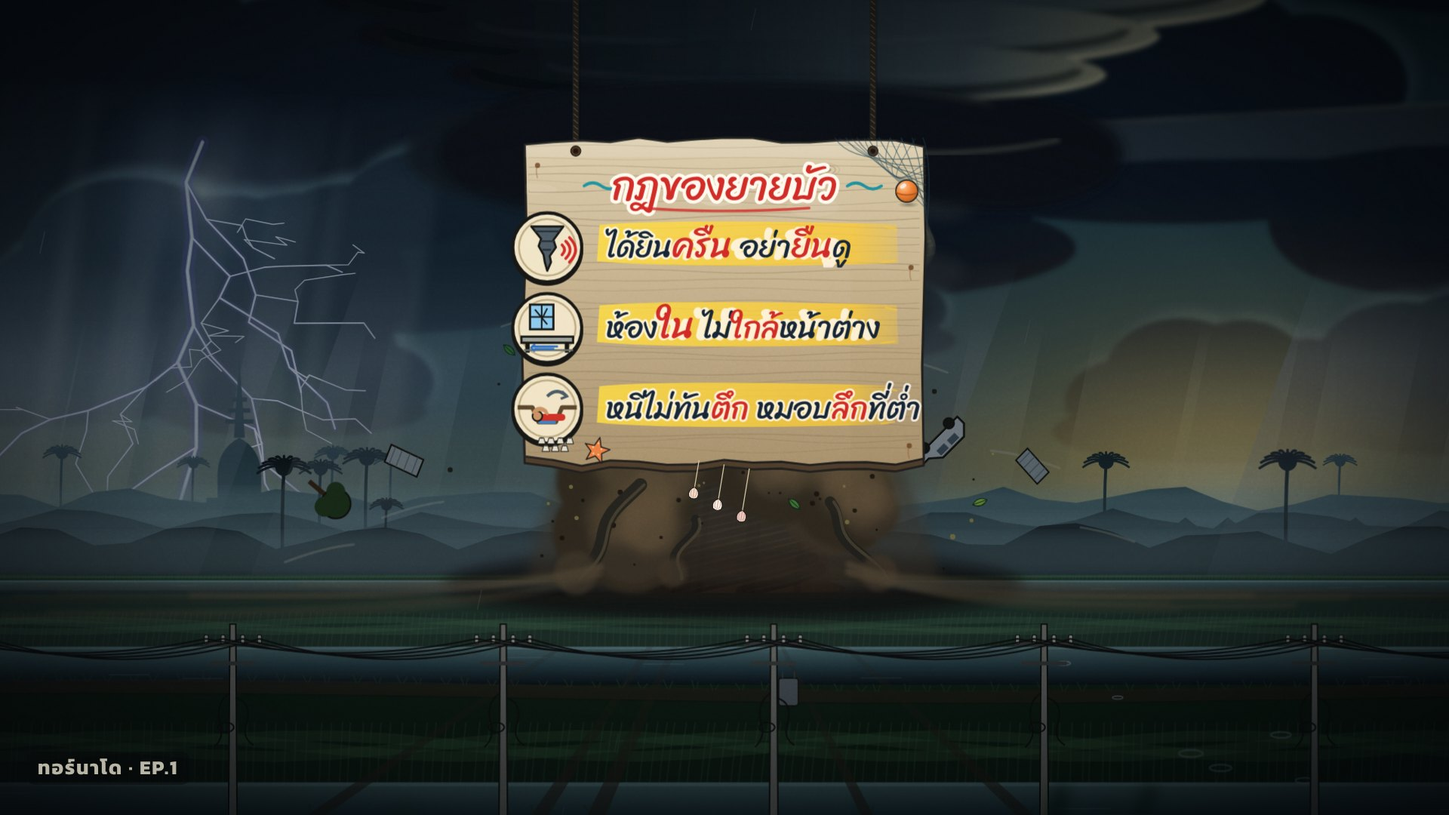
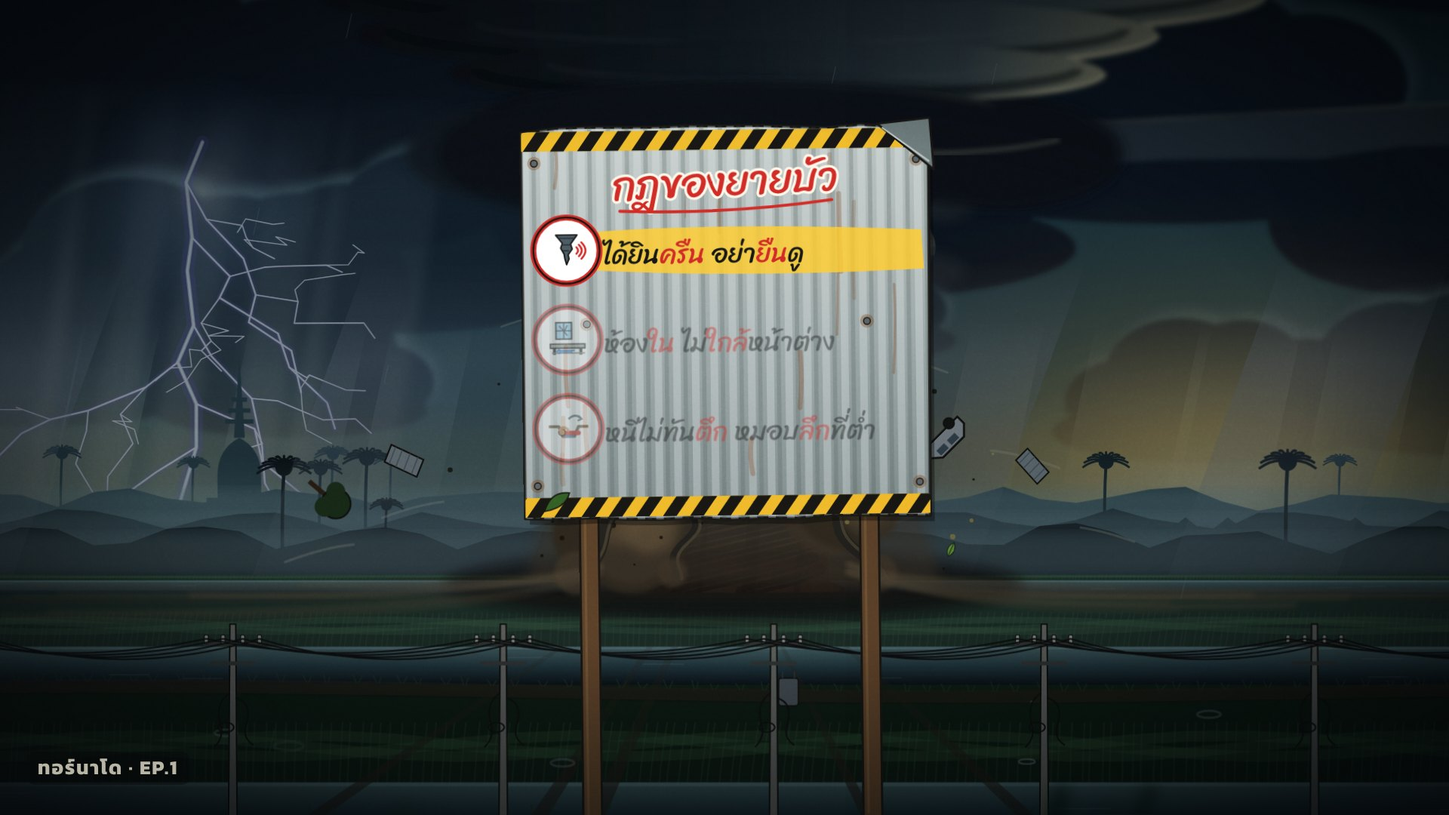
Tornado: ARC v2 (2 episodes, เสียงรถไฟ) and a rule sign that fits the story (owner: "ป้ายกฏ เอาให้เขาธีมสิ")
ARC v2:
- no ghosts, the big tornado, the freight-train roar as the title and
  the warning sign
- characters, three rhyming rules, the S13/S14/S16 tables, EP.1 synopsis
  and EP.2 draft
- every claim quoted in SOURCES.md; v1 kept as ARC-v1-…-ไม่ใช้.md

Rule sign: Ngw.ruleBoard replaces ทะเลลด's driftwood board. It is a
hand-painted zinc sheet on two posts by the highway: hazard stripes, rust
from the nails, a bent corner, road-sign discs for the icons, brush
lettering with the rhymes in red. It sways in the wind and the corner
flaps.

Skill: S4 gains "the rule sign must fit the story's world"; S4b records
today's owner direction on disaster stories.

Claude-Session: https://claude.ai/code/session_01UrmfYm4mSaaTB25kG8juWV

Changed region(s): [[0.3438, 0.1222, 0.6562, 1.0]]

diff --git a/video/tornado/stylekit/src/ngw.js b/video/tornado/stylekit/src/ngw.js
@@ -407,6 +407,54 @@
     let lb = `<g transform="translate(540,300)"><rect x="-440" y="-80" width="880" height="140" rx="24" fill="#8a6a3e" stroke="#2a1a0c" stroke-width="7"/><text y="20" text-anchor="middle" font-family="Sriracha" font-size="78" fill="#fff6dc" stroke="#2a1a0c" stroke-width="8" paint-order="stroke">หลบตรงไหนในบ้าน?</text></g>`;
     put(L.light, lb);
   };
+
+  // ---------------------------------------------------------------- ยายบัว's rule sign (owner: "ป้ายกฏ เอาให้เขาธีมสิ")
+  // a hand-painted corrugated zinc sheet nailed to two posts by the highway: hazard stripes top and bottom, rust running from the
+  // nails, a bent corner, round road-sign discs for the icons, the rules in brush lettering with the rhymes in red; it drops in,
+  // rows paint on one by one, the rule of this episode gets a yellow brush swipe, the others stay faint; the sheet sways and rattles
+  // in the wind, rain streaks over it. o.rules [[pictogram SVG (120 box), text with <u>rhyme</u>]…] · o.active · o.y · o.title
+  Ngw.ruleBoard = (tl, layer, t0, dur, o = {}) => {
+    const id = `rb${Math.round(t0 * 100)}`, I = "#1e1a16", Y0 = o.y ?? 330, X0 = 60, W = 960, rows = o.rules || [], n = rows.length, GAP = o.gap ?? 210, H = 290 + n * GAP, act = o.active ?? 0;
+    const r = mk(o.seed || 97);
+    let g = `<g id="${id}"><g id="${id}-sw">`;
+    // posts
+    g += [X0 + 150, X0 + W - 150].map((x) => `<rect x="${x - 22}" y="${Y0 + 40}" width="44" height="${1920 - Y0}" fill="#6a4a2e" stroke="${I}" stroke-width="5"/><path d="M${x - 10},${Y0 + 60}V1920" stroke="#8a6a44" stroke-width="6" opacity=".6"/>`).join("");
+    // the zinc sheet: corrugation, a dented outline, rust streaks, a bent corner
+    let ol = `M${X0},${Y0 + 8}`; for (let k = 1; k <= 12; k++) ol += `L${f1(X0 + (W * k) / 12)},${f1(Y0 + (r() - 0.5) * 10)}`;
+    ol += `L${X0 + W - 6},${Y0 + H}`; for (let k = 11; k >= 0; k--) ol += `L${f1(X0 + (W * k) / 12)},${f1(Y0 + H + (r() - 0.5) * 12)}`; ol += "Z";
+    g += `<defs><clipPath id="${id}-cp"><path d="${ol}"/></clipPath><linearGradient id="${id}-zn" x1="0" y1="0" x2="0" y2="1"><stop offset="0" stop-color="#c8ccc8"/><stop offset=".5" stop-color="#aeb4b2"/><stop offset="1" stop-color="#8e9694"/></linearGradient></defs>`;
+    g += `<path d="${ol}" fill="#000" opacity=".35" transform="translate(10,14)"/><path d="${ol}" fill="url(#${id}-zn)" stroke="${I}" stroke-width="7" stroke-linejoin="round"/>`;
+    let cor = ""; for (let x = X0; x < X0 + W; x += 44) cor += `<rect x="${x}" y="${Y0 - 20}" width="18" height="${H + 40}" fill="#e8ecea" opacity=".35"/><rect x="${x + 24}" y="${Y0 - 20}" width="10" height="${H + 40}" fill="#5a6260" opacity=".25"/>`;
+    for (let k = 0; k < 14; k++) { const x = X0 + 30 + r() * (W - 60), y = Y0 + 30 + r() * (H - 120), L0 = 60 + r() * 200; cor += `<path d="M${f1(x)},${f1(y)}q${f1((r() - 0.5) * 12)},${f1(L0 / 2)} ${f1((r() - 0.5) * 10)},${f1(L0)}" stroke="#8a4a1e" stroke-width="${f1(4 + r() * 8)}" fill="none" opacity="${f1(0.15 + r() * 0.2)}" stroke-linecap="round"/>`; }
+    // hazard stripes top and bottom
+    const haz = (y) => { let h = `<rect x="${X0 - 10}" y="${y}" width="${W + 20}" height="46" fill="#f2c230"/>`; for (let x = X0 - 60; x < X0 + W + 40; x += 64) h += `<path d="M${x},${y + 46}L${x + 32},${y}H${x + 64}L${x + 32},${y + 46}Z" fill="#1e1a16"/>`; return h; };
+    g += `<g clip-path="url(#${id}-cp)">${cor}${haz(Y0 + 6)}${haz(Y0 + H - 52)}</g>`;
+    // nails with rust halos, a bent top-right corner, a leaf caught
+    g += [[X0 + 30, Y0 + 80], [X0 + W - 30, Y0 + 80], [X0 + 30, Y0 + H - 80], [X0 + W - 30, Y0 + H - 80], [X0 + 150, Y0 + H / 2], [X0 + W - 150, Y0 + H / 2]].map(([x, y]) => `<circle cx="${x}" cy="${y}" r="16" fill="#8a4a1e" opacity=".35"/><circle cx="${x}" cy="${y}" r="8" fill="#6a6e70" stroke="${I}" stroke-width="2.6"/>`).join("");
+    g += `<g id="${id}-flap"><path d="M${X0 + W - 120},${Y0 - 4}L${X0 + W + 4},${Y0 - 2}L${X0 + W - 2},${Y0 + 120}Z" fill="#7e8684" stroke="${I}" stroke-width="5" stroke-linejoin="round"/><path d="M${X0 + W - 110},${Y0 + 6}L${X0 + W - 10},${Y0 + 100}" stroke="#c8ccc8" stroke-width="4"/></g>`;
+    g += `<path d="M${X0 + 40},${Y0 + H - 30}q30,-40 70,-20q-20,30 -70,20z" fill="#3e6a2a" stroke="${I}" stroke-width="3" transform="rotate(-20 ${X0 + 70} ${Y0 + H - 40})"/>`;
+    // the title, brush-painted
+    g += `<g transform="translate(540,${Y0 + 160}) rotate(-2)"><text text-anchor="middle" font-family="Sriracha" font-size="96" fill="#d8312a" stroke="#fff8ec" stroke-width="12" paint-order="stroke">${o.title || "กฎของยายบัว"}</text><path d="M-250,26Q0,46 250,22" stroke="#d8312a" stroke-width="7" fill="none" stroke-linecap="round"/></g>`;
+    // rows: a road-sign disc + brush lettering; the active one on a yellow swipe
+    rows.forEach(([pic, txt], k) => { const y = Y0 + 300 + k * GAP, isA = k === act;
+      const t = txt.replace(/<u>(.*?)<\/u>/g, `<tspan fill="#d8312a">$1</tspan>`);
+      g += `<g id="${id}-r${k}" opacity="${isA ? 0 : 0}">`;
+      if (isA) g += `<path id="${id}-hl" d="M240,${y - 58}Q560,${y - 76} 1000,${y - 54}L1006,${y + 38}Q600,${y + 56} 236,${y + 34}Z" fill="#ffd23a" opacity=".85"/>`;
+      g += `<g transform="translate(${X0 + 104},${y - 14})"><circle r="78" fill="#fff" stroke="#d8312a" stroke-width="14"/><circle r="78" fill="none" stroke="${I}" stroke-width="4"/><g transform="translate(-58,-62) scale(.97)">${pic}</g></g>`;
+      g += `<text x="250" y="${y + 18}" font-family="Sriracha" font-size="62" fill="${I}">${t}</text></g>`; });
+    g += `</g></g>`;
+    put(layer, g);
+    // animation: drop in, rows paint on, the active row's swipe, wind sway, the flapping corner, the faint later rows
+    const q = (s) => document.getElementById(`${id}${s}`), n2 = (p) => Math.max(1, Math.ceil(dur / p));
+    tl.fromTo(q(""), { y: -260, opacity: 0 }, { y: 0, opacity: 1, duration: 0.45, ease: "back.out(1.6)", immediateRender: false }, t0);
+    tl.set(q(""), { opacity: 0 }, Math.max(0, t0 - 0.01));
+    tl.fromTo(q("-sw"), { rotation: -1.4, svgOrigin: `540 ${Y0}` }, { rotation: 1.4, svgOrigin: `540 ${Y0}`, duration: 0.9, ease: "sine.inOut", yoyo: true, repeat: n2(0.9), immediateRender: false }, t0);
+    tl.fromTo(q("-flap"), { rotation: 0, svgOrigin: `${X0 + W - 120} ${Y0}` }, { rotation: -14, svgOrigin: `${X0 + W - 120} ${Y0}`, duration: 0.12, ease: "sine.inOut", yoyo: true, repeat: n2(0.12), immediateRender: false }, t0);
+    rows.forEach((_, k) => { const at = (o.at || [0.35, 0.5, 0.65])[k] ?? 0.35 + 0.15 * k, isA = k === act;
+      tl.fromTo(q(`-r${k}`), { opacity: 0, x: -30 }, { opacity: isA ? 1 : (o.faint ?? 0.42), x: 0, duration: 0.3, ease: "power2.out", immediateRender: false }, t0 + at); });
+    if (q("-hl")) tl.fromTo(q("-hl"), { scaleX: 0, svgOrigin: `240 0` }, { scaleX: 1, svgOrigin: `240 0`, duration: 0.35, ease: "power2.out", immediateRender: false }, t0 + 0.75);
+    if (o.out != null) tl.to(q(""), { y: -300, opacity: 0, duration: 0.35, ease: "power2.in", immediateRender: false }, t0 + o.out);
+  };
   // ---------------------------------------------------------------- the lake, its bank, the shrine
   Ngw.lake = (o = {}) => {   // from the horizon hz down to the near shore y1, in perspective: swell bands, wind streaks, whitecaps
     const hz = o.hz ?? 900, y1 = o.y1 ?? 1480, r = mk(o.seed || 5), D = y1 - hz;

diff --git a/video/tornado/ARC.md b/video/tornado/ARC.md
@@ -1,69 +1,103 @@
-> **4 พ.ย. 2569 เปลี่ยนทิศ:** เจ้าของสั่ง "ไม่ต้องเอาผีนะ เอาแบบภัยพิบัติใหญ่ ธอนาโดไม่ใช่พายุงัวช้าง"
-> - ARC v1 ด้านล่าง (นาคเล่นน้ำ ตำนาน งวงช้างเล็ก) ไม่ใช้แล้ว
-> - ภาพชุดใหม่ (ทอร์นาโดยักษ์ถล่มหมู่บ้าน ไม่มีผี) อยู่ใน `frames/`
-> - จะเขียน ARC v2 หลังเจ้าของดูภาพ
-
-# นาคเล่นน้ำ — ARC (3 ตอน · ร่าง v1, 4 พ.ย. 2569)
+# เสียงรถไฟ (ทอร์นาโด) — ARC v2 · 2 ตอน · ร่าง 4 พ.ย. 2569
 
 **เจ้าของสั่ง (4 พ.ย. 2569):**
-- "ทำเรื่องใหม่เกี่ยวธอนาโด"
-- ทำทั้งคลิปสั้นแนวตั้งสำหรับ IG และ Facebook และคลิปยาวแนวนอน 16:9 สำหรับ YouTube
-  - คลิปยาวใช้ composition เดียวกัน เปิด `video/longform/landscape.js`
-- ทำตามสูตรทะเลลด ซึ่งเป็นเรื่องที่วิวสูงที่สุด
+- "ไม่ต้องเอาผีนะ เอาแบบภัยพิบัติใหญ่ ธอนาโดไม่ใช่พายุงัวช้าง"
+- "ทำพายุให้อลังการกว่านี้"
+- ถามว่า "ดีเท่า ทะเลลดยัง" แล้วสั่ง "ทำเลย"
 
-**แหล่งอ้างอิง:** `SOURCES.md` ทุกข้อความรู้ในเรื่องต้องมีคำพูดอยู่ในไฟล์นั้น
+**อ้างอิง:**
+- **แหล่ง:** ทุกข้อความรู้ต้องมีคำพูดตรงอยู่ใน `SOURCES.md`
+- **ภาพ:** `frames/` · ชุดสร้างภาพ `stylekit/`
+- **v1:** "นาคเล่นน้ำ" (มีตำนาน) ไม่ใช้แล้ว ดู `ARC-v1-นาคเล่นน้ำ-ไม่ใช้.md`
 
 ## แนวคิด
-- **ไม่มีผี ภัยจริงคือพายุงวงช้าง (landspout/waterspout)**
-  - กรมอุตุนิยมวิทยาเรียกว่า "ลมงวง (เทอร์นาโด)" และในอภิธานศัพท์ใช้ชื่อ "สเปาท์น้ำ พวยน้ำ นาคเล่นน้ำ"
-- **ตำนานแทนผีคือ "นาคเล่นน้ำ / พายุหางนาค"** ซึ่งชาวบ้านเรียกกันจริง (สนุก 2553 · แนวหน้า 2567 และ 2568)
-  - ความเชื่อในเรื่อง: "นาคเล่นน้ำอยู่กลางบึง ไม่ขึ้นบก" และ "หมู่บ้านนี้นาคคุ้มครอง"
-  - SPC ตอบคำถาม "เมืองของเราได้รับการคุ้มครองจาก (เนิน แม่น้ำ วิญญาณ)" ไว้ตรงๆ ว่า "No."
-- **เรื่องสมมติทั้งหมด**
-  - ฉากคือ "บ้านบึงหางนาค" (สมมติ) หมู่บ้านริมบึงใหญ่ภาคกลางตอนบน มีทุ่งนา บ่อปลา วัด โรงเรียน และสะพานคอนกรีตข้ามคลอง
-  - เหตุจริงใช้แค่ในคำบรรยายความรู้ (พิษณุโลก 2568: งวงช้างจากกลางนาเข้าหมู่บ้าน บ้านเสียหายกว่า 20 หลัง วัดและโรงเรียนเสียหาย คนโดนกระจกบาด · เพชรบุรี 2566: เรือพลิกคว่ำ)
-- **ห้ามมีฉากหนีด้วยเรือ** เพราะแหล่งขัดกันเรื่องทิศทาง
+- **ภัย:** ทอร์นาโดยักษ์จากพายุซูเปอร์เซลล์ถล่มหมู่บ้านในที่ราบภาคกลาง
+- **เรื่องสมมติแบบ "ถ้าวันหนึ่ง…":** ไม่อ้างว่าไทยเจอแบบนี้บ่อย และไม่ใช้เหตุจริงในภาพ
+- **สัญญาณเตือนเป็นชื่อเรื่อง แบบทะเลลด:** "เสียงรถไฟ"
+  - SPC: "Loud, continuous roar or rumble, which doesn't fade in a few seconds like thunder."
+  - Ready.gov: "a loud roar like a freight train"
+- **ภาษาในบท:** ใช้คำว่า "ทอร์นาโด" เสมอ ไม่ใช้ "พายุงวงช้าง" (เจ้าของสั่ง)
 
 ## ตัวละคร
-- **ฝน (16):** ไลฟ์ "นาคเล่นน้ำ" หายอดไลก์ ปากแข็ง
-- **ปู (9):** น้องชาย กลัวแต่กล้า ถือกล้องตัวเล็ก
-- **ยายบัว:** คนตั้งกฎคล้องจอง 3 ข้อ แปะไว้ข้างประตูครัว
-- **ตาเทียน:** อดีตผู้ใหญ่บ้าน ยืนยันว่า "นาคคุ้มครองหมู่บ้าน ลมไม่ข้ามบึง" และมีเรื่องปิดไว้
+| ตัว | บท | ภาพ |
+|---|---|---|
+| ฝน (16) | พี่สาว ไลฟ์ขายของให้ยาย ปากแข็ง | เสื้อกันฝนเหลือง หางม้า มือถือ |
+| ปู (9) | น้องชาย มั่นใจเกิน "จะถ่ายหนังพายุให้ได้ล้านวิว" | หมวกบักเก็ตเขียว เสื้อลายแดงขาว กล้องเล็ก |
+| ยายบัว | ขายของริมถนน ตั้งกฎคล้องจอง พูดคำเตือนคนแก่ที่ใครๆ ว่าเป็นนิทาน | เสื้อลูกไม้ชมพูลายบัว ผ้าถุงเขียว |
+| ตาเทียน | อดีตผู้ใหญ่บ้าน ขับกระบะ เชื่อสองเรื่องผิดๆ: "เปิดหน้าต่างบ้านไม่พัง" และ "ใต้สะพานปลอดภัย" | เสื้อกากี หนวดขาว ผ้าขาวม้าแดง |
+| ผู้บรรยาย | พูดกับ "คุณ" | – |
 
-## กฎคล้องจอง 3 ข้อ
-1. **EP.1:** "เห็นงวงหมุนวน อย่าทนยืนดู"
-   - เข้าอาคารที่มั่นคง ไปห้องในสุดชั้นล่าง ห่างหน้าต่าง หมอบต่ำ เอามือปิดหัว (SPC · NWS · กรมอุตุฯ)
-2. **EP.2:** "ไม่เปิดหน้าต่าง ไม่วางใจสะพาน"
-   - เปิดหน้าต่างไม่ช่วยอะไรและเสี่ยงโดนกระจก ใต้สะพานยิ่งลมแรง (SPC · NWS · CDC)
-3. **EP.3:** "หนีไม่ทันตึก หมอบลึกที่ต่ำ"
-   - ไม่มีอาคารให้หลบ ให้หมอบคว่ำในที่ต่ำ เอาแขนปิดท้ายทอย และอยู่ห่างต้นไม้กับรถ (SPC · NWS)
+## กฎคล้องจองของยายบัว
+EP.1 ใช้ข้อ 1 · EP.2 ใช้ข้อ 2 และ 3
 
-## เดาทางไม่ได้
-| ตอน | คนดูจะเดาว่า… | ที่จริง… | เบาะแสที่วางไว้ก่อน |
+1. **"ได้ยินครืน อย่ายืนดู"**
+   - เสียงคำรามต่อเนื่องคือสัญญาณ ให้เข้าที่หลบทันที ห้ามยืนถ่าย
+   - แหล่ง: SPC · Ready.gov
+2. **"ห้องใน ไม่ใกล้หน้าต่าง"**
+   - ชั้นล่างสุด ห้องเล็กกลางบ้าน ไม่มีหน้าต่าง หมอบต่ำ เอามือปิดหัว
+   - แหล่ง: SPC · NWS · CDC "AVOID WINDOWS"
+3. **"หนีไม่ทันตึก หมอบลึกที่ต่ำ"**
+   - ถ้าไม่มีที่หลบ ให้นอนราบในคูหรือที่ต่ำ เอาแขนปิดหัว
+   - แหล่ง: NWS Wichita "As a last resort, lie flat in a ditch…"
+
+## S13 ครบ 8 ข้อ
+| ข้อ | ในเรื่องนี้ |
+|---|---|
+| 1. ของล่อใจ | ทอร์นาโดยักษ์ที่สวยน่าถ่าย ฝนไลฟ์ คอมเมนต์เชียร์ "ถ่ายต่อๆ" · คำสั่ง "อย่ายกมือถือขึ้นถ่าย" |
+| 2. คำเตือนคนแก่ = อันตรายจริง | ยายบัว: "ได้ยินเสียงรถไฟทั้งที่ไม่มีราง ให้ทิ้งทุกอย่างแล้ววิ่ง" เด็กหาว่านิทาน แต่ตรงกับ Ready.gov/SPC |
+| 3. หักล้างความเชื่อ | "เปิดหน้าต่าง บ้านจะไม่ระเบิด" ผิด (SPC/NWS) · "ใต้สะพานปลอดภัย" ผิด (SPC/NWS/CDC) |
+| 4. ครอบครัว | พี่สาวปากแข็ง · น้องชายมั่นใจเกิน · ยายตั้งกฎ · ตาเทียนที่ทุกคนเชื่อเพราะเคยเป็นผู้ใหญ่บ้าน |
+| 5. คนดูรู้ก่อน | ฉากเปิดวันสดใส แต่หลังตัวละครมีพายุก่อตัวที่ขอบฟ้า · คนดูเห็นงวงก่อนตัวละครหันไปดู |
+| 6. ปิดตอน | EP.1 ปูอยู่ในกระบะตาเทียนที่กำลังจะมุดใต้สะพาน · ตัวเลือก "มุดใต้สะพาน / หมอบในคูน้ำ" ถูกดึงไปทางสะพาน |
+| 7. เฟรมแรก/ปก | หน้าจอไลฟ์ที่ถ่ายทอร์นาโดยักษ์ |
+| 8. ช่วงเวลา | ลงช่วงพายุฤดูร้อน (มี.ค.–พ.ค.) ได้ผลที่สุด ถ้าลงตอนนี้ให้ตั้งเป็นเรื่อง "ถ้าวันหนึ่ง" |
+
+## เดาทางไม่ได้ (S14)
+| ตอน | คนดูจะเดาว่า… | ที่จริง… | เบาะแสที่ฝังไว้ |
 |---|---|---|---|
-| EP.1 | ฝนถ่ายนาคเล่นน้ำจนโดนพัดลงบึง | งวงขึ้นจากบึงข้ามนาเข้าหมู่บ้าน ทุกคนวิ่งเข้าศาลาวัดที่โล่ง ยายบัวลากไปห้องน้ำกุฏิซึ่งเป็นห้องในสุด แล้วปิดตอนด้วยปูที่ยังอยู่ข้างนอก | ตาเทียนพูด "ลมไม่ข้ามบึง" ซ้ำ · มีป้าย "ห้องน้ำ" ในวัด |
-| EP.2 | ตาเทียนจะช่วยปู | ตาเทียนสั่งให้เปิดหน้าต่างแล้วกระจกแตก ส่วนคนในรถหลบใต้สะพาน ยายบัวตะโกนห้ามทั้งสองเรื่อง | ตาเทียนกำผ้าขาวม้าเก่าที่มีชื่อเพื่อน |
-| EP.3 | นาคพาปูไป | ปูหมอบในคูน้ำข้างนา ห่างต้นไม้และรถจึงรอด เฉลยว่า 30 ปีก่อนตาเทียนพาเพื่อนไปหลบใต้สะพาน แล้วเพื่อนตาย ตาเทียนจึงแต่งเรื่อง "นาคคุ้มครอง" ไว้ปลอบใจตัวเอง | รอยน้ำที่เสาสะพานเก่า · ชื่อบนผ้าขาวม้า |
+| EP.1 | ฝนที่ไลฟ์อยู่จะโดนพายุเพราะมัวถ่าย | ฝนยอมวางมือถือแล้ววิ่ง คนที่พลาดคือตาเทียน ผู้ใหญ่ที่ทุกคนเชื่อ และปูติดไปกับเขา | ตาเทียนพูดตอนต้นว่า "พายุมา เปิดหน้าต่างไว้ บ้านไม่พัง" · ปูขอนั่งกระบะไปถ่ายใกล้ๆ |
+| EP.2 | ปูน้องคนเล็กต้องเป็นเหยื่อ | ปูจำกฎข้อ 3 ได้ ลากตาเทียนลงคูน้ำ เด็กช่วยผู้ใหญ่ | ยายสอนกฎข้อ 3 ตอนปูเล่นซ่อนแอบในคูน้ำ (EP.1) |
 
-## ปิดตอน
-- **EP.1:** ปูยังอยู่กลางนา งวงกำลังเข้ามา (ตัวเลือก: วิ่งออกไปตาม / ตะโกนให้หมอบ)
-- **EP.2:** ทุกคนในกุฏิรอด แต่ไม่เห็นปู
-- **EP.3:** ตาเทียนรับสารภาพ แล้วทั้งหมู่บ้านติดป้ายกฎ 3 ข้อที่ศาลา และยังไหว้นาคตามความเชื่อ แต่ไม่ยืนดูงวงอีกแล้ว
+## ลุ้น (S16)
+1. **นาฬิกาในฉาก:** เสียงครืนดังขึ้นเรื่อยๆ และฝุ่นที่ฐานงวงใกล้เข้ามาทุกช็อต (ไม่มีตัวเลขบนจอ)
+2. **สอนระหว่างหนี:** ยายบัวพูดกฎตอนลากเด็กวิ่ง
+3. **แผนพัง:** ถึงบ้านแล้ว แต่ตาเทียนเปิดหน้าต่างทุกบาน และปูไม่อยู่
+4. **ไม่บอกผลก่อน:** ฮุกบอกแค่ "อย่า…"
+5. **EP.1 จบที่อันตรายค้าง:** กระบะวิ่งเข้าใต้สะพาน งวงอยู่ข้างหลัง
+6. **เสียง:** หัวใจเต้นเร่ง และเงียบ 0.4 วิ ก่อนหลังคาบ้านแรกปลิว
+7. **ลงมือ:** ฝนปิดหน้าต่างที่ตาเทียนเปิด ยายนับคนในห้องน้ำ ปูลากตาเทียน (EP.2)
 
-## รูปแบบไฟล์
-- **คลิปสั้นแนวตั้ง:** 3 ตอน ตอนละราว 2 นาที (IG/Facebook)
-- **คลิปยาว 16:9:** ราว 6 นาที (YouTube) ต่อ 3 ตอนเป็นเรื่องเดียว ตัดการ์ดท้ายตอนออก
-- **เพลง:** suno1 สูตรทะเลลด (กฎ A5)
-- **ภาพ:** ตามเช็กลิสต์ 8 ข้อ (SKILL ข้อ 3) และกฎ V1b
-  - ฟ้าแลบไม่เกิน 1 ครั้งต่อ 10 วินาที
-  - ฝุ่นและเศษใบไม้หมุนบางๆ ไม่บังหน้าตัวละคร
+## เรื่องย่อ EP.1 "เสียงรถไฟ" (~1:50)
+1. **0–3 วิ ฮุก:** หน้าจอไลฟ์ถ่ายทอร์นาโดยักษ์
+   - "ถ้าวันหนึ่ง… คุณได้ยินเสียงรถไฟ ทั้งที่แถวนั้นไม่มีราง"
+   - กล่องแดงขึ้นที่ ~3 วิ: "{อย่ายกมือถือขึ้นถ่าย}"
+2. **"หนึ่งชั่วโมงก่อน":** บ่ายร้อนจัด ยายบัวขายของริมทางหลวง
+   - ฝนไลฟ์ขายของ ปูประกาศจะถ่ายหนังพายุ
+   - ตาเทียนแวะ บอกว่าพายุมาเปิดหน้าต่างไว้บ้านไม่พัง (ฝังเบาะแส)
+   - ขอบฟ้ามีเมฆก้อนยักษ์ที่คนดูเห็นก่อน
+3. **คำเตือนคนแก่:** ยายบัวเล่าว่า "ได้ยินเสียงรถไฟทั้งที่ไม่มีราง ให้ทิ้งทุกอย่างแล้ววิ่ง" เด็กหัวเราะว่านิทาน
+4. **ฉากชื่อเรื่องบนถนน:** "เสียงรถไฟ ตอนที่ 1"
+5. **เสียงมาจริง:** "ครืน…" ไม่จางเหมือนฟ้าร้อง ปูถาม "เสียงรถไฟ? แถวนี้ไม่มีรางนะ"
+   - งวงยักษ์ลงมาแตะพื้นที่ขอบนา ฝุ่นและเศษซากพุ่ง ไฟฟ้าแลบสีเขียวที่เสาไฟ
+6. **ของล่อใจ:** ฝนไลฟ์ คอมเมนต์ "ถ่ายต่อๆ" กับ "หนีเร็วลูก"
+   - การ์ดกฎข้อ 1 "ได้ยินครืน อย่ายืนดู" · ยายลากเด็กวิ่งเข้าบ้าน
+7. **แผนพัง:**
+   - ถึงบ้านแล้ว ตาเทียนกำลังเปิดหน้าต่างทุกบาน ฝนวิ่งปิด
+   - ยายนับคนในห้องน้ำ ไม่มีปู
+   - ภาพย้อนสั้นในปัจจุบัน: ปูขึ้นกระบะตาเทียนไปแล้ว
+8. **ปิดตอน:** กระบะพุ่งไปทางสะพานทางหลวง งวงยักษ์อยู่ข้างหลัง
+   - ปูพูด "ตา… ใต้สะพานปลอดภัยใช่ไหม"
+   - ตัวเลือก "มุดใต้สะพาน / หมอบในคูน้ำ" ถูกดึงไปทางสะพาน · ตัดดำ · การ์ด "ตอนที่ 2"
 
-## ภาพตัวอย่าง (เจ้าของสั่ง "ทำภาพมาก่อน", 4 พ.ย. 2569)
-- 5 ภาพอยู่ใน `frames/` มีทั้งแนวตั้งและแนวนอน
-  1. นาคเล่นน้ำกลางบึง
-  2. งวงข้ามนาเข้าหมู่บ้าน
-  3. ห้องน้ำกุฏิ
-  4. ตำนานหนังตะลุง
-  5. ปูหมอบในคูน้ำ
-- ชุดสร้างภาพอยู่ใน `stylekit/` (อ่าน README)
-- รอเจ้าของดูภาพก่อน แล้วจึงเขียนบทและทำเสียง
+## เรื่องย่อ EP.2 (ตอนจบ · ร่าง)
+1. **ฮุก:** "ถ้าวันหนึ่ง… คุณติดอยู่บนถนนตอนทอร์นาโดมา" แล้ว "{อย่ามุดใต้สะพาน}"
+2. **ใต้สะพาน:** คนจอดรถปีนขึ้นใต้คาน
+   - ปูจำกฎข้อ 3 ได้ ลากตาเทียนลงคูข้างทาง นอนราบ เอาแขนปิดหัว
+   - ภาพสมมติโทนเทา: ลมอัดผ่านใต้สะพานแรงขึ้น (NWS)
+3. **ที่บ้าน:**
+   - แผนภาพ "หลบตรงไหนในบ้าน?"
+   - กระจกบานที่ตาเทียนเปิดไว้แตกเข้ามา (SPC/NWS: เปิดหน้าต่างไม่ช่วย)
+4. **หลังพายุผ่าน:** หมู่บ้านพัง แต่ทุกคนรอด (ดูเหมือนจบดี)
+5. **หักมุม F6:** ต้องหาแหล่งทางการก่อนใช้ เช่น อันตรายหลังพายุ
+   - เบาะแสที่ฝังไว้แล้ว: ไฟฟ้าแลบที่เสาไฟใน EP.1
+   - ยังไม่ได้ยืนยันแหล่ง ห้ามใช้จนกว่าจะเพิ่มลง SOURCES.md

diff --git a/video/tornado/ARC-v1-นาคเล่นน้ำ-ไม่ใช้.md b/video/tornado/ARC-v1-นาคเล่นน้ำ-ไม่ใช้.md
@@ -1,0 +1,69 @@
+> **4 พ.ย. 2569 เปลี่ยนทิศ:** เจ้าของสั่ง "ไม่ต้องเอาผีนะ เอาแบบภัยพิบัติใหญ่ ธอนาโดไม่ใช่พายุงัวช้าง"
+> - ARC v1 ด้านล่าง (นาคเล่นน้ำ ตำนาน งวงช้างเล็ก) ไม่ใช้แล้ว
+> - ภาพชุดใหม่ (ทอร์นาโดยักษ์ถล่มหมู่บ้าน ไม่มีผี) อยู่ใน `frames/`
+> - จะเขียน ARC v2 หลังเจ้าของดูภาพ
+
+# นาคเล่นน้ำ — ARC (3 ตอน · ร่าง v1, 4 พ.ย. 2569)
+
+**เจ้าของสั่ง (4 พ.ย. 2569):**
+- "ทำเรื่องใหม่เกี่ยวธอนาโด"
+- ทำทั้งคลิปสั้นแนวตั้งสำหรับ IG และ Facebook และคลิปยาวแนวนอน 16:9 สำหรับ YouTube
+  - คลิปยาวใช้ composition เดียวกัน เปิด `video/longform/landscape.js`
+- ทำตามสูตรทะเลลด ซึ่งเป็นเรื่องที่วิวสูงที่สุด
+
+**แหล่งอ้างอิง:** `SOURCES.md` ทุกข้อความรู้ในเรื่องต้องมีคำพูดอยู่ในไฟล์นั้น
+
+## แนวคิด
+- **ไม่มีผี ภัยจริงคือพายุงวงช้าง (landspout/waterspout)**
+  - กรมอุตุนิยมวิทยาเรียกว่า "ลมงวง (เทอร์นาโด)" และในอภิธานศัพท์ใช้ชื่อ "สเปาท์น้ำ พวยน้ำ นาคเล่นน้ำ"
+- **ตำนานแทนผีคือ "นาคเล่นน้ำ / พายุหางนาค"** ซึ่งชาวบ้านเรียกกันจริง (สนุก 2553 · แนวหน้า 2567 และ 2568)
+  - ความเชื่อในเรื่อง: "นาคเล่นน้ำอยู่กลางบึง ไม่ขึ้นบก" และ "หมู่บ้านนี้นาคคุ้มครอง"
+  - SPC ตอบคำถาม "เมืองของเราได้รับการคุ้มครองจาก (เนิน แม่น้ำ วิญญาณ)" ไว้ตรงๆ ว่า "No."
+- **เรื่องสมมติทั้งหมด**
+  - ฉากคือ "บ้านบึงหางนาค" (สมมติ) หมู่บ้านริมบึงใหญ่ภาคกลางตอนบน มีทุ่งนา บ่อปลา วัด โรงเรียน และสะพานคอนกรีตข้ามคลอง
+  - เหตุจริงใช้แค่ในคำบรรยายความรู้ (พิษณุโลก 2568: งวงช้างจากกลางนาเข้าหมู่บ้าน บ้านเสียหายกว่า 20 หลัง วัดและโรงเรียนเสียหาย คนโดนกระจกบาด · เพชรบุรี 2566: เรือพลิกคว่ำ)
+- **ห้ามมีฉากหนีด้วยเรือ** เพราะแหล่งขัดกันเรื่องทิศทาง
+
+## ตัวละคร
+- **ฝน (16):** ไลฟ์ "นาคเล่นน้ำ" หายอดไลก์ ปากแข็ง
+- **ปู (9):** น้องชาย กลัวแต่กล้า ถือกล้องตัวเล็ก
+- **ยายบัว:** คนตั้งกฎคล้องจอง 3 ข้อ แปะไว้ข้างประตูครัว
+- **ตาเทียน:** อดีตผู้ใหญ่บ้าน ยืนยันว่า "นาคคุ้มครองหมู่บ้าน ลมไม่ข้ามบึง" และมีเรื่องปิดไว้
+
+## กฎคล้องจอง 3 ข้อ
+1. **EP.1:** "เห็นงวงหมุนวน อย่าทนยืนดู"
+   - เข้าอาคารที่มั่นคง ไปห้องในสุดชั้นล่าง ห่างหน้าต่าง หมอบต่ำ เอามือปิดหัว (SPC · NWS · กรมอุตุฯ)
+2. **EP.2:** "ไม่เปิดหน้าต่าง ไม่วางใจสะพาน"
+   - เปิดหน้าต่างไม่ช่วยอะไรและเสี่ยงโดนกระจก ใต้สะพานยิ่งลมแรง (SPC · NWS · CDC)
+3. **EP.3:** "หนีไม่ทันตึก หมอบลึกที่ต่ำ"
+   - ไม่มีอาคารให้หลบ ให้หมอบคว่ำในที่ต่ำ เอาแขนปิดท้ายทอย และอยู่ห่างต้นไม้กับรถ (SPC · NWS)
+
+## เดาทางไม่ได้
+| ตอน | คนดูจะเดาว่า… | ที่จริง… | เบาะแสที่วางไว้ก่อน |
+|---|---|---|---|
+| EP.1 | ฝนถ่ายนาคเล่นน้ำจนโดนพัดลงบึง | งวงขึ้นจากบึงข้ามนาเข้าหมู่บ้าน ทุกคนวิ่งเข้าศาลาวัดที่โล่ง ยายบัวลากไปห้องน้ำกุฏิซึ่งเป็นห้องในสุด แล้วปิดตอนด้วยปูที่ยังอยู่ข้างนอก | ตาเทียนพูด "ลมไม่ข้ามบึง" ซ้ำ · มีป้าย "ห้องน้ำ" ในวัด |
+| EP.2 | ตาเทียนจะช่วยปู | ตาเทียนสั่งให้เปิดหน้าต่างแล้วกระจกแตก ส่วนคนในรถหลบใต้สะพาน ยายบัวตะโกนห้ามทั้งสองเรื่อง | ตาเทียนกำผ้าขาวม้าเก่าที่มีชื่อเพื่อน |
+| EP.3 | นาคพาปูไป | ปูหมอบในคูน้ำข้างนา ห่างต้นไม้และรถจึงรอด เฉลยว่า 30 ปีก่อนตาเทียนพาเพื่อนไปหลบใต้สะพาน แล้วเพื่อนตาย ตาเทียนจึงแต่งเรื่อง "นาคคุ้มครอง" ไว้ปลอบใจตัวเอง | รอยน้ำที่เสาสะพานเก่า · ชื่อบนผ้าขาวม้า |
+
+## ปิดตอน
+- **EP.1:** ปูยังอยู่กลางนา งวงกำลังเข้ามา (ตัวเลือก: วิ่งออกไปตาม / ตะโกนให้หมอบ)
+- **EP.2:** ทุกคนในกุฏิรอด แต่ไม่เห็นปู
+- **EP.3:** ตาเทียนรับสารภาพ แล้วทั้งหมู่บ้านติดป้ายกฎ 3 ข้อที่ศาลา และยังไหว้นาคตามความเชื่อ แต่ไม่ยืนดูงวงอีกแล้ว
+
+## รูปแบบไฟล์
+- **คลิปสั้นแนวตั้ง:** 3 ตอน ตอนละราว 2 นาที (IG/Facebook)
+- **คลิปยาว 16:9:** ราว 6 นาที (YouTube) ต่อ 3 ตอนเป็นเรื่องเดียว ตัดการ์ดท้ายตอนออก
+- **เพลง:** suno1 สูตรทะเลลด (กฎ A5)
+- **ภาพ:** ตามเช็กลิสต์ 8 ข้อ (SKILL ข้อ 3) และกฎ V1b
+  - ฟ้าแลบไม่เกิน 1 ครั้งต่อ 10 วินาที
+  - ฝุ่นและเศษใบไม้หมุนบางๆ ไม่บังหน้าตัวละคร
+
+## ภาพตัวอย่าง (เจ้าของสั่ง "ทำภาพมาก่อน", 4 พ.ย. 2569)
+- 5 ภาพอยู่ใน `frames/` มีทั้งแนวตั้งและแนวนอน
+  1. นาคเล่นน้ำกลางบึง
+  2. งวงข้ามนาเข้าหมู่บ้าน
+  3. ห้องน้ำกุฏิ
+  4. ตำนานหนังตะลุง
+  5. ปูหมอบในคูน้ำ
+- ชุดสร้างภาพอยู่ใน `stylekit/` (อ่าน README)
+- รอเจ้าของดูภาพก่อน แล้วจึงเขียนบทและทำเสียง

diff --git a/.claude/skills/rodmai-club-video/SKILL.md b/.claude/skills/rodmai-club-video/SKILL.md
@@ -131,6 +131,18 @@ description: >-
 - **S4** ผู้ใหญ่ในเรื่องตั้ง **กฎคล้องจอง 3 ข้อ ตอนละข้อ** การ์ดกฎต้องขึ้น **ทุกตอน** ตรงจังหวะที่ตัวละครทำตามหรือเรียนรู้กฎข้อนั้น
   - ข้อที่ผ่านแล้วติ๊กถูก ข้อของตอนนี้ไฮไลต์ ข้อที่ยังไม่ถึงขึ้นจางๆ
   - ผู้ใช้ถาม "แล้วกฎ 3 ข้อล่ะ" ตอน EP.2 ไม่มีการ์ด
+  - **ป้ายกฎต้องเข้าธีมของเรื่อง** (เจ้าของ 4 พ.ย. 2569: "ป้ายกฏ เอาให้เขาธีมสิ")
+    - ป้ายไม้ลอยทะเลมีทุ่น อวน และดาวทะเล (`TideUI.rule`) เป็นของทะเลลดเท่านั้น
+    - เรื่องอื่นต้องทำป้ายจากวัสดุในโลกของเรื่อง เช่น เรื่องทอร์นาโดใช้แผ่นสังกะสีริมทางหลวง (`Ngw.ruleBoard` ใน `video/tornado/stylekit/src/ngw.js`)
+    - ข้อความกฎต้องสั้นพอให้อยู่ในป้าย ห้ามล้นขอบ
+- **S4b เรื่องภัยพิบัติต้องเป็นภัยใหญ่จริง** (เจ้าของ 4 พ.ย. 2569)
+  - เจ้าของสั่ง "ไม่ต้องเอาผีนะ เอาแบบภัยพิบัติใหญ่ ธอนาโดไม่ใช่พายุงัวช้าง" และ "ทำพายุให้อลังการกว่านี้"
+  - ห้ามย่อภัยให้เล็กลงเพื่อให้ตรงกับเหตุที่เคยเกิดในไทย และห้ามใส่ตำนานหรือผีถ้าเจ้าของไม่ได้ขอ
+  - ภัยต้องเป็นตัวเอกของภาพ: ฟ้าทั้งผืนเป็นพายุ มีแสงขับให้เห็นรูปทรง สายฟ้า และเศษซาก
+  - ตัวอย่าง: `Ngw.epic` ในชุดภาพทอร์นาโด
+  - **ภาพตัวอย่างต้องมีครบแบบทะเลลด** (เจ้าของถามซ้ำ "ดีเท่า ทะเลลดยัง") ได้แก่:
+    - ชื่อเรื่องอยู่ในฉาก · สัญญาณเตือนที่จำง่าย · ฉากเปิดชีวิตปกติที่สดใส
+    - ป้ายกฎ · ตัวเลือก · แผนภาพความรู้ · หน้าจอไลฟ์ที่มีคอมเมนต์ (ไม่มีตัวเลขคนดู) · ภาพสมมติโทนเทา · หลังเหตุการณ์
 - **S5** (เฉพาะเรื่องผี) EP.1 บอกลักษณะผีสั้นๆ 2–3 ประโยคบนภาพตำนานแบบหนังตะลุง: รูปร่าง สี จุดเด่น วิธีล่อ และวิธีทำร้าย
   - เรื่องที่ไม่ใช่ผี (สัตว์ อุบัติเหตุ ภัยธรรมชาติ แนวหนัง ซอมบี้) ห้ามใช้จอหนังตะลุงทั้งเรื่อง (เจ้าของ 31 ต.ค. 2569: "มันไม่ใช่หนังผีก็ไม่ต้องทำแบบหนังตะลุง")
     ความเชื่อหรือคำเตือนคนแก่ให้เล่าในฉากของเรื่องเอง · "ถ้าทำแบบนั้นจะเกิดอะไร" ให้เป็นฉากจินตนาการในโลกเดียวกัน (ภาพแบบเดียวกับเรื่อง เปลี่ยนโทนสี)
